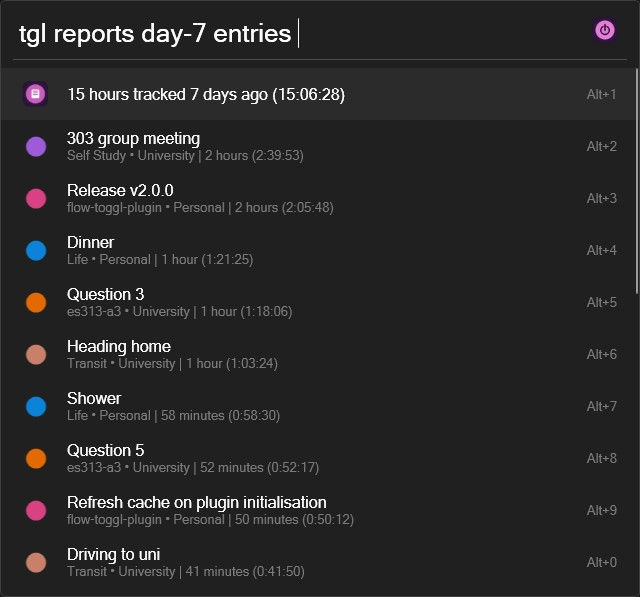
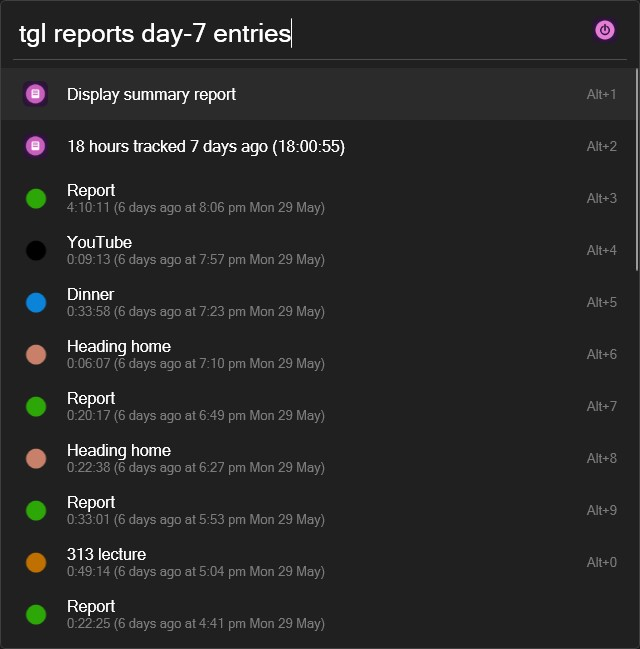
docs(readme): :memo: update screenshots

diff --git a/README.md b/README.md
@@ -94,6 +94,8 @@ A performant [Toggl Track](https://track.toggl.com/timer) plugin for [Flow Launc
 
 ![View tracked time report by project entries](./assets/screenshots/reports-projects-entries.jpg)
 
+![View detailed tracked time report by project entries](./assets/screenshots/reports-projects-entries-detailed.jpg)
+
 ![View tracked time report by client](./assets/screenshots/reports-clients.jpg)
 
 ![View tracked time report by client projects](./assets/screenshots/reports-clients-projects.jpg)
